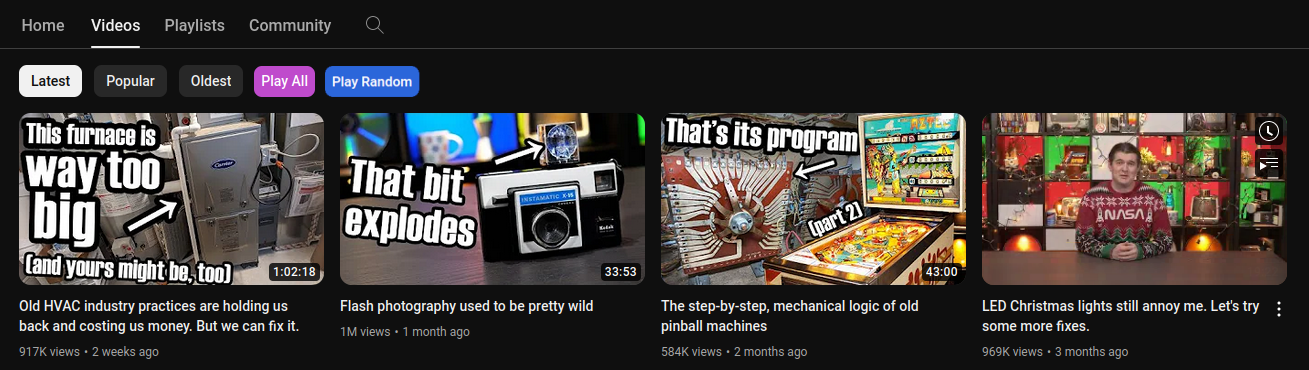
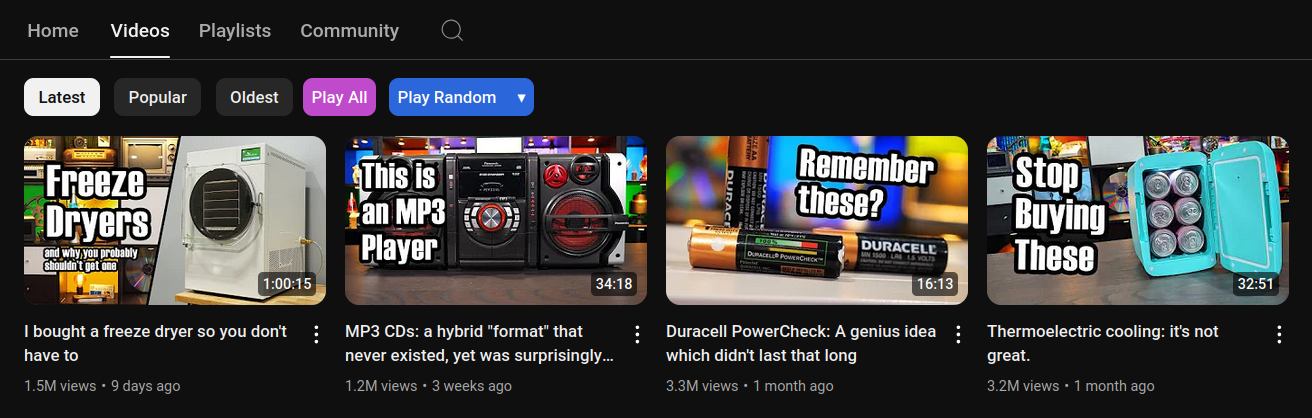
Updated script version and README for next release

diff --git a/script.user.js b/script.user.js
@@ -1,7 +1,7 @@
 // ==UserScript==
 // @name            YouTube Play All
 // @description     Adds the Play-All-Button to the videos, shorts, and live sections of a YouTube-Channel
-// @version         20241029-1-beta
+// @version         20241109-0
 // @author          Robert Wesner (https://robert.wesner.io)
 // @license         MIT
 // @namespace       http://robert.wesner.io/

diff --git a/README - MIRROR.md b/README - MIRROR.md
@@ -15,6 +15,8 @@ I got frustrated from not being able to binge-watch some YouTube channels. Unabl
 
 Also **works with YouTube Shorts** and supports the **mobile browser** version of YouTube.
 
+Now with support for **Random Play**!
+
 > The [GitHub Version](https://github.com/RobertWesner/YouTube-Play-All) takes priority and
 > might be updated before this mirror is. Make sure to check there for newer versions.
 
@@ -62,6 +64,17 @@ Shorts can be played both by latest and most popular.
 ### Live Streams
 
 ![live.png](https://github.com/RobertWesner/YouTube-Play-All/raw/main/readme/live.png)
+
+
+### Play Random
+
+It is now possible to play by random on desktop devices.
+
+![play_random.png](https://github.com/RobertWesner/YouTube-Play-All/raw/main/readme/play_random.png)
+
+Optionally with custom shuffle priority (select by clicking `▾`).
+
+![play_random_custom.png](https://github.com/RobertWesner/YouTube-Play-All/raw/main/readme/play_random_custom.png)
 
 
 ## Issues

diff --git a/README.md b/README.md
@@ -13,7 +13,9 @@
 
 I got frustrated from not being able to binge-watch some YouTube channels. Unable to find a working userscript, I created this. Hopefully, it will be as useful to you as it is to me.
 
-Also **works with YouTube Shorts** and supports the **mobile browser** version of YouTube. 
+Also **works with YouTube Shorts** and supports the **mobile browser** version of YouTube.
+
+Now with support for **Random Play**!
 
 ## Installation
 
@@ -63,6 +65,17 @@ Shorts can be played both by latest and most popular.
 ### Live Streams
 
 ![live.png](readme/live.png)
+
+
+### Play Random
+
+It is now possible to play by random on desktop devices.
+
+![play_random.png](readme/play_random.png)
+
+Optionally with custom shuffle priority (select by clicking `▾`).
+
+![play_random_custom.png](readme/play_random_custom.png)
 
 
 ## Issues
